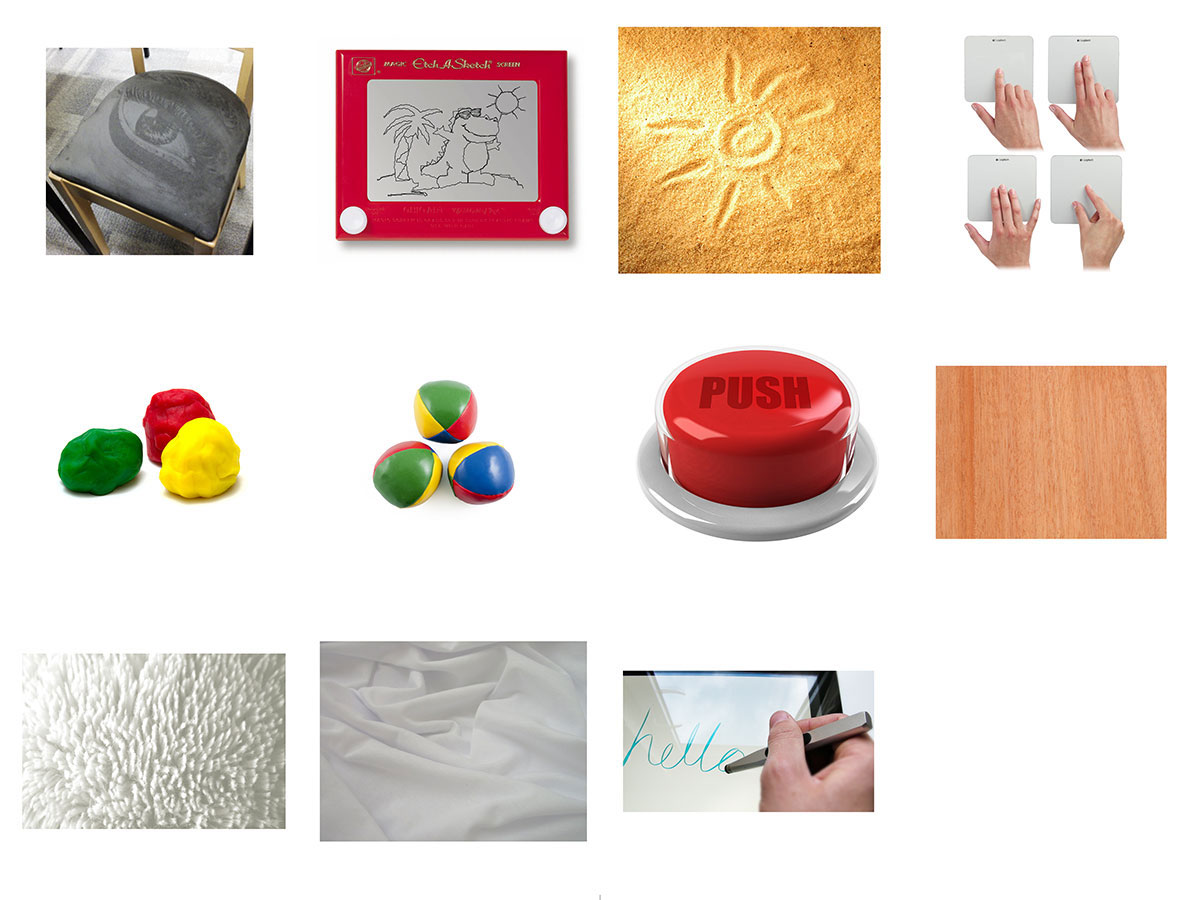
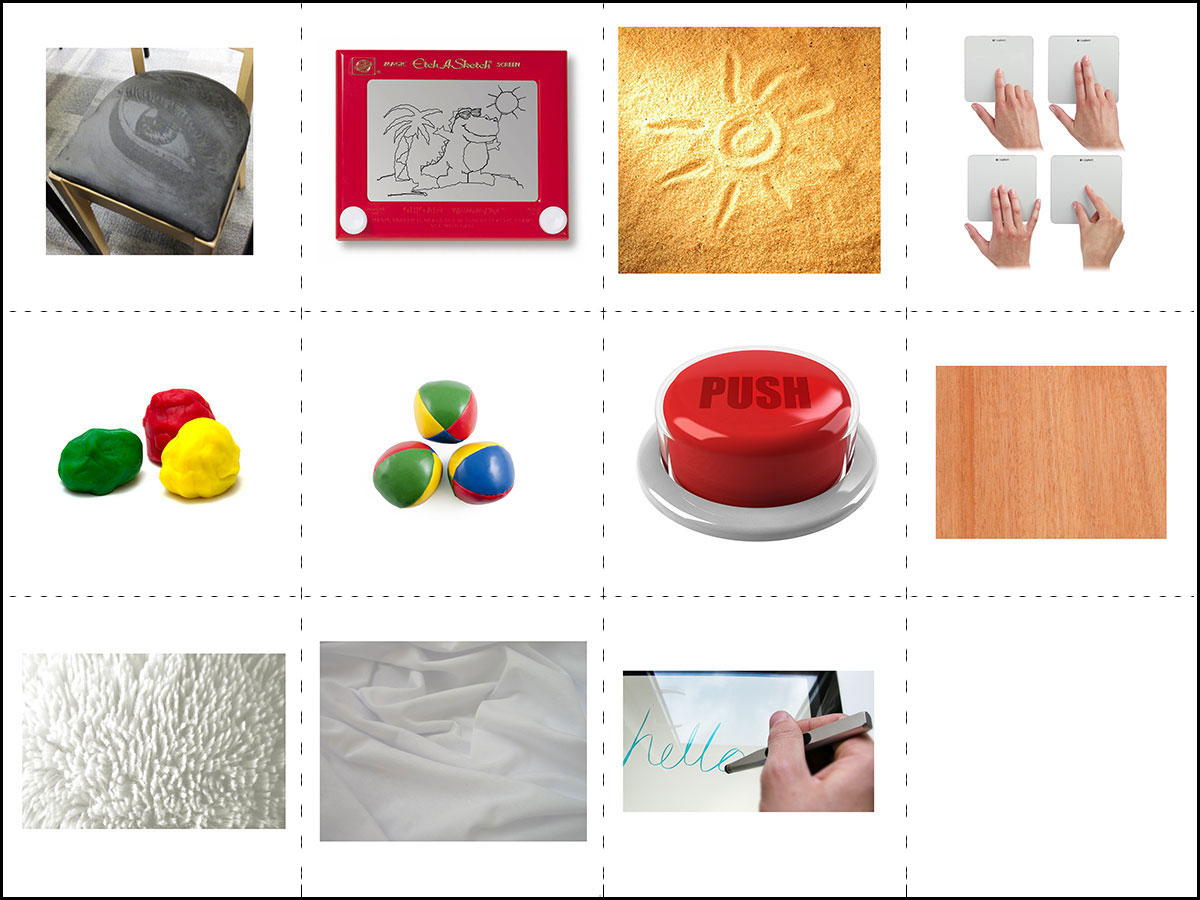
workshop update: inspiration cards

Changed region(s): [[0.0, 0.0, 1.0, 1.0]]

diff --git a/workshops.tex b/workshops.tex
@@ -85,21 +85,45 @@ See appendix~\ref{app:workshops-ii} for \todo{a transcript?? and} audio files.
 \subsection{Inspirational cards}
 
 Taking from lessons learned in the previous workshop about supporting disparate participants with referential material, we compiled a stack of small cards with pictures printed on them that would hopefully work as sources of inspiration.
-The cards were created with inspiration from the \emph{Inspiration Card Workshops} by~\cite{halskov2006inspiration}.
-The
-and \todo{\dots}
-See figure~\ref{ch:workshops:technology-cards} which lists the prepared inspirational cards.
+The cards were motivated by \emph{Inspiration cards} describe in the \emph{Inspiration Card Workshops} by~\cite{halskov2006inspiration}.
+The \emph{Inspiration Card Workshop} is a participatory design method where designers work together with collaborators, often with a specific domain knowledge, to create new design concepts.
+It recognises that participants have a disparate background and that sources of inspiration can play an important role in the design process.
+These sources are manifested in \emph{inspiration cards} on which an image and some textual information is printed.
+These cards are divided in to two main categories:
+\begin{itemize}
+  \item{\emph{Technology cards}, which represents a specific technology or an application of one or more technologies.}
+  \item{\emph{Domain cards}, which represent information on the domains within the design space.}
+\end{itemize}
+The design method is intended to be used in the early stages of a design proces where designers and collaborators seek to close in on future designs.
 
+In our workshop we have used \hl{a simplified approach to} inspirational cards as a means of communication between designers (ourselves) and the participants.
+Instead og having several different domain cards we chose to see the context of the home environment as the domain and have the cards represent different common interactive appliances of the home.
+Regarding technology cards, we have taken the topic of technology as a mixture of materiality and form, and interactions.
+See figures~\ref{ch:workshops:technology-cards} and \ref{ch:workshops:appliance-cards} which list the prepared inspirational cards.
+
+The cards created were created with a varying degree of conceptual distance to encourage creative thinking and diversity.
 Some cards were created with metaphorical references in mind.
 For example, a picture with a sun drawn in sand was added to conceptually describe something that could be affected by external factors and could fade and disappear over time.
-Other cards, i.e. a picture with various gestures on a mouse pad, were not as conceptually distant and more easily recognisable.
+Other cards, i.e. a picture with various gestures on a mouse pad, were conceptually close and more easily recognisable.
 
-\begin{figure}[hb]
+\section{Workshop II}
+Brainstorm med Matthias
+
+
+\begin{figure}
+\centering
+\begin{minipage}[t]{.5\textwidth}
   \centering
-    \includegraphics[width=4in]{workshops/technology-cards}
-    \caption[A list of inspirational workshop cards.] % in list of figures
-  {Cards that were used as inspiration in workshop II.} % beneath the figure
+  \includegraphics[width=0.9\linewidth]{workshops/technology-cards}
+  \captionof{figure}{Technology cards}
   \label{ch:workshops:technology-cards}
+\end{minipage}%
+\begin{minipage}[t]{.5\textwidth}
+  \centering
+  \includegraphics[width=0.9\linewidth]{workshops/appliance-cards}
+  \captionof{figure}{Appliance cards}
+  \label{ch:workshops:appliance-cards}
+\end{minipage}
 \end{figure}
 
 \subsection{Discussion}
